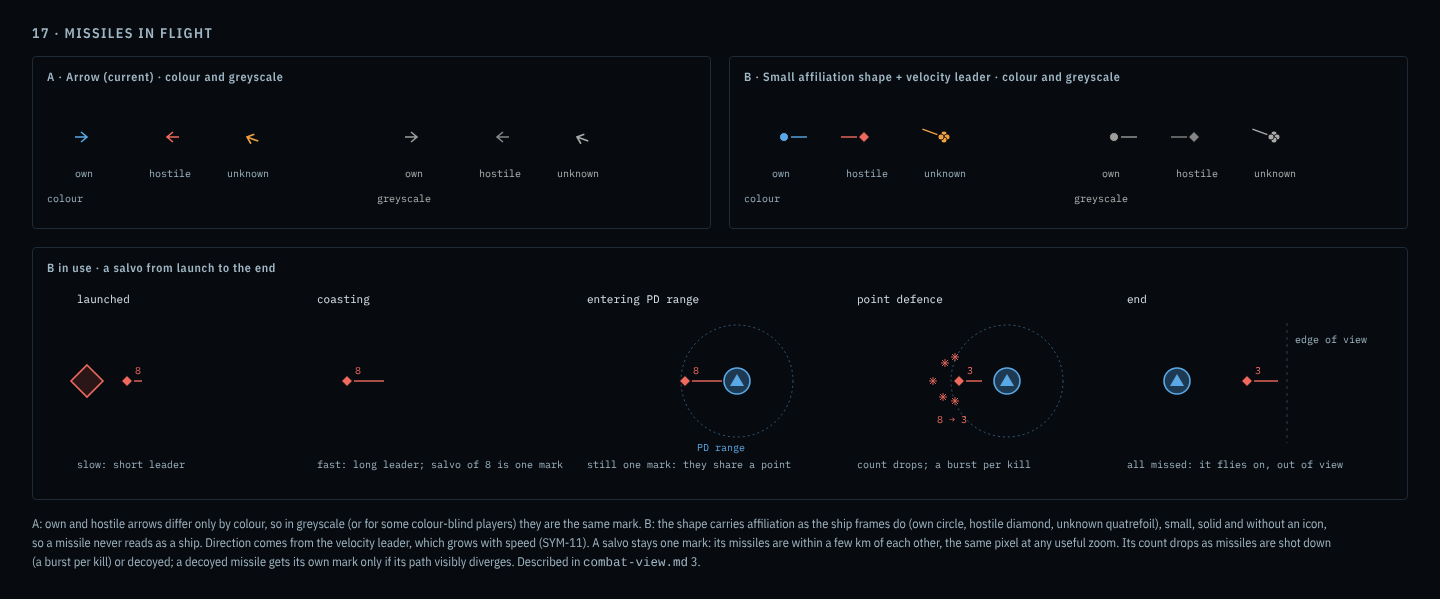
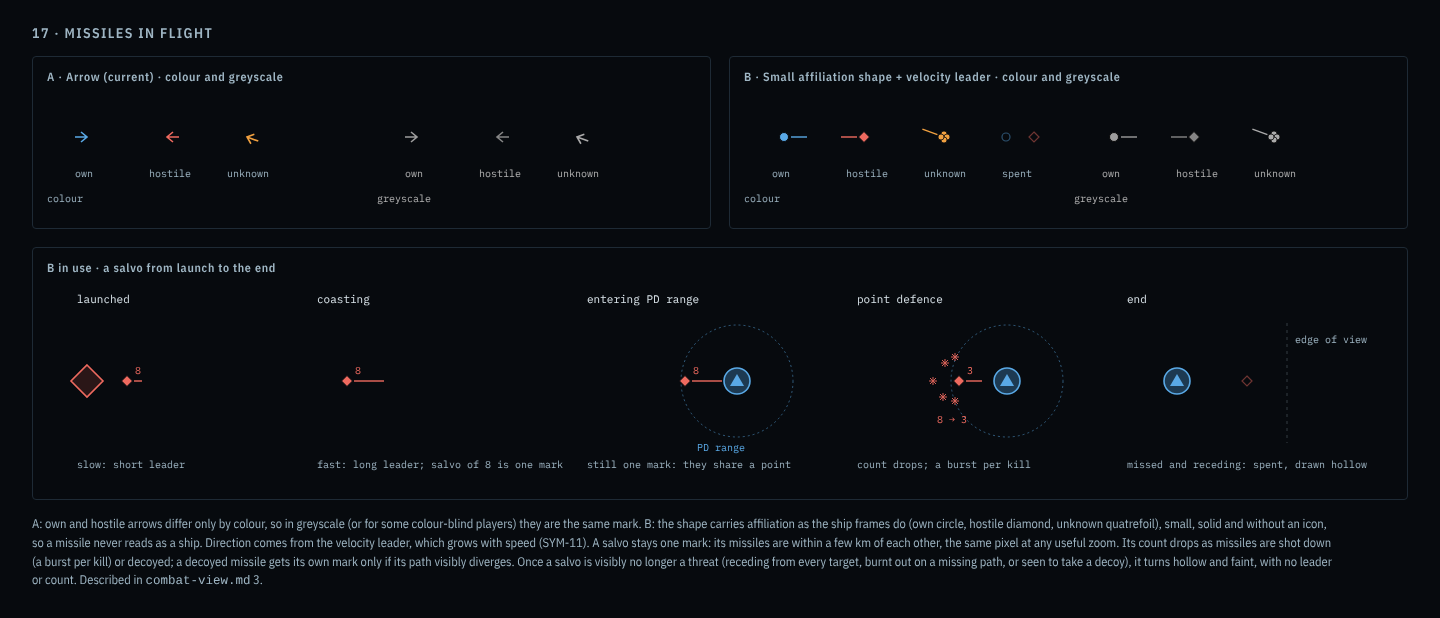
Combat view: spent missiles drawn hollow and faint
A salvo or round that the viewing side can see is no longer a threat
(receding from every target, burnt out on a missing path, or seen to take
a decoy) is drawn hollow and faint with no leader or count, judged from
observation, not truth. combat-view.md 3 and mock-up 17.

Claude-Session: https://claude.ai/code/session_01PJRZuLmymGwSYFmKB8B147

diff --git a/docs/ideas/presentation/mockups/17-missile-symbols.html b/docs/ideas/presentation/mockups/17-missile-symbols.html
@@ -36,7 +36,7 @@ p.note{font-size:12.5px;color:#9FB6C4;line-height:1.5;margin:14px 0 0;max-width:
     <svg width="1340" height="200" viewBox="0 0 1340 200" font-family="Plex Mono, monospace" id="life"></svg>
   </div>
 </div>
-<p class="note">A: own and hostile arrows differ only by colour, so in greyscale (or for some colour-blind players) they are the same mark. B: the shape carries affiliation as the ship frames do (own circle, hostile diamond, unknown quatrefoil), small, solid and without an icon, so a missile never reads as a ship. Direction comes from the velocity leader, which grows with speed (SYM-11). A salvo stays one mark: its missiles are within a few km of each other, the same pixel at any useful zoom. Its count drops as missiles are shot down (a burst per kill) or decoyed; a decoyed missile gets its own mark only if its path visibly diverges. Described in <code>combat-view.md</code> 3.</p>
+<p class="note">A: own and hostile arrows differ only by colour, so in greyscale (or for some colour-blind players) they are the same mark. B: the shape carries affiliation as the ship frames do (own circle, hostile diamond, unknown quatrefoil), small, solid and without an icon, so a missile never reads as a ship. Direction comes from the velocity leader, which grows with speed (SYM-11). A salvo stays one mark: its missiles are within a few km of each other, the same pixel at any useful zoom. Its count drops as missiles are shot down (a burst per kill) or decoyed; a decoyed missile gets its own mark only if its path visibly diverges. Once a salvo is visibly no longer a threat (receding from every target, burnt out on a missing path, or seen to take a decoy), it turns hollow and faint, with no leader or count. Described in <code>combat-view.md</code> 3.</p>
 <script>
 const C={own:'#5AA9E6',hostile:'#EE6A5F',unknown:'#F0A040',ground:'#070A0E',muted:'#9FB6C4'};
 function shape(aff,x,y,s=1){
@@ -44,6 +44,12 @@ function shape(aff,x,y,s=1){
   if(aff==='own') return `<circle cx="${x}" cy="${y}" r="${4.5*s}" fill="${c}" stroke="${C.ground}" stroke-width="1"/>`;
   if(aff==='hostile'){const r=5.5*s;return `<path d="M${x},${y-r} L${x+r},${y} L${x},${y+r} L${x-r},${y} Z" fill="${c}" stroke="${C.ground}" stroke-width="1"/>`;}
   const r=3*s;return `<g fill="${c}" stroke="${C.ground}" stroke-width=".8"><circle cx="${x}" cy="${y-r}" r="${r}"/><circle cx="${x+r}" cy="${y}" r="${r}"/><circle cx="${x}" cy="${y+r}" r="${r}"/><circle cx="${x-r}" cy="${y}" r="${r}"/></g>`;
+}
+function spent(aff,x,y){
+  const c=C[aff];
+  if(aff==='own') return `<circle cx="${x}" cy="${y}" r="4" fill="${C.ground}" stroke="${c}" stroke-width="1.2" opacity=".45"/>`;
+  if(aff==='hostile') return `<path d="M${x},${y-5} L${x+5},${y} L${x},${y+5} L${x-5},${y} Z" fill="${C.ground}" stroke="${c}" stroke-width="1.2" opacity=".45"/>`;
+  return `<circle cx="${x}" cy="${y}" r="4" fill="${C.ground}" stroke="${c}" stroke-width="1.2" stroke-dasharray="2 1.5" opacity=".45"/>`;
 }
 function missile(aff,x,y,deg,len,count){
   const a=deg*Math.PI/180, c=C[aff], r0=7;
@@ -67,7 +73,8 @@ function pair(fn){
   return s;
 }
 document.getElementById('arrow').innerHTML=pair((aff,x,y,d)=>arrow(aff,x,y,d));
-document.getElementById('shape').innerHTML=pair((aff,x,y,d)=>missile(aff,x,y,d,16,''));
+document.getElementById('shape').innerHTML=pair((aff,x,y,d)=>missile(aff,x,y,d,16,''))+
+  ['own','hostile'].map((a,i)=>spent(a,262+i*28,45)).join('')+`<text x="258" y="85" font-size="10" fill="${C.muted}">spent</text>`;
 // lifecycle
 let L='';
 const steps=[
@@ -75,7 +82,7 @@ const steps=[
  ['coasting',330,'fast: long leader; salvo of 8 is one mark'],
  ['entering PD range',600,'still one mark: they share a point'],
  ['point defence',870,'count drops; a burst per kill'],
- ['end',1140,'all missed: it flies on, out of view'],
+ ['end',1140,'missed and receding: spent, drawn hollow'],
 ];
 steps.forEach(([t,x,n])=>{L+=`<text x="${x-60}" y="20" font-size="11" fill="${C.text||'#DCE6EC'}">${t}</text><text x="${x-60}" y="185" font-size="10" fill="${C.muted}">${n}</text>`;});
 // launcher and target
@@ -94,7 +101,7 @@ L+=missile('hostile',912,98,0,16,'3');
 L+=`<text x="890" y="140" font-size="10" fill="${C.hostile}">8 → 3</text>`;
 // end: missed missiles fly on off the view
 L+=ship(1130,98);
-L+=missile('hostile',1200,98,0,24,'3');
+L+=spent('hostile',1200,98);
 L+=`<line x1="1240" y1="40" x2="1240" y2="160" stroke="${C.muted}" stroke-opacity=".3" stroke-dasharray="3 4"/><text x="1248" y="60" font-size="10" fill="${C.muted}">edge of view</text>`;
 document.getElementById('life').innerHTML=L;
 </script>

diff --git a/docs/ideas/presentation/combat-view.md b/docs/ideas/presentation/combat-view.md
@@ -43,7 +43,8 @@ All **Candidate**. Mock-ups: `mockups/13-combat-replay.png` to `17-missile-symbo
 - Ships and forces as their symbols (SYM), with velocity leaders along the relative motion.
 - Each ship's path: solid behind, dashed ahead (as *Orbital Transfers* 3.3), in the relative frame.
 - Missiles as **salvos** (board 17): one small solid affiliation shape per salvo (own circle, hostile diamond, unknown quatrefoil, about 8 px, no frame or icon), so affiliation reads without colour and a missile never reads as a ship. A velocity leader shows direction and grows with speed (SYM-11). The count sits beside it, and the label says what the state knows: the design name when known ("Dart" for our own), otherwise "Missile". Speed and range to target show when selected or close.
-- **A salvo never splits.** Its missiles are within a few km of each other, the same pixel at any zoom that shows point-defence range. The count drops as missiles are shot down (a small burst at the mark per kill) or decoyed. A decoyed missile gets its own mark only if its path visibly diverges. If all remaining missiles miss, the mark flies on out of view.
+- **A salvo never splits.** Its missiles are within a few km of each other, the same pixel at any zoom that shows point-defence range. The count drops as missiles are shot down (a small burst at the mark per kill) or decoyed. A decoyed missile gets its own mark only if its path visibly diverges.
+- **Spent salvos fade.** Once the viewing side could see a salvo is no longer a threat, it is drawn hollow and faint, with no leader or count, and drops out of the inbound figures. Spent means: moving away from every ship it could hit, burnt out on a path that misses by more than the track error, or seen to take a decoy. It is judged from what that side observed, never from the simulation's truth, so an enemy salvo isn't dimmed the moment its seeker is fooled. Unguided rounds follow the same rule. Spent marks fly on out of view.
 - Point-defence fire as short ticks from the mount towards the salvo mark. Decoys as faint dots.
 - A hit as a flash on the target's frame; damage as the condition bar dropping; disabled as the stale-style dimming plus a "disabled" label; destroyed as the salvage X.
 - Missed missiles and rounds fly on and off the edge of the view. A missile that is shot down ends in a small burst.
